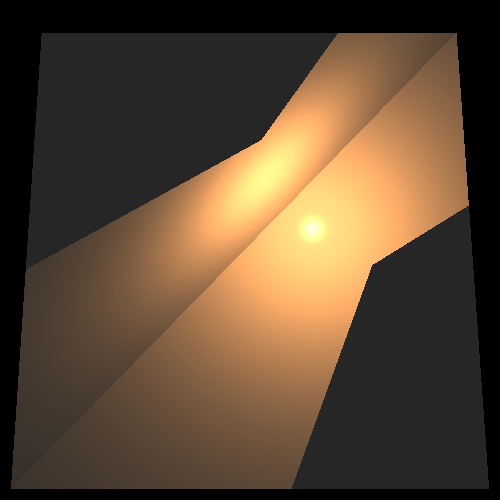
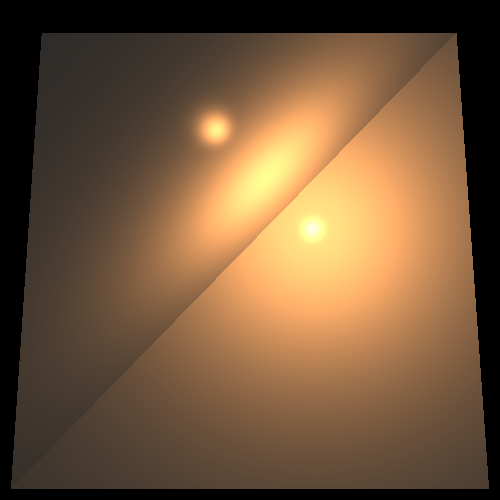
starting stage 7

Changed region(s): [[0.57, 0.42, 0.99, 0.99], [0.03, 0.06, 0.69, 0.54]]

diff --git a/src/renderer/RayTracerBasic.java b/src/renderer/RayTracerBasic.java
@@ -248,47 +248,19 @@ public class RayTracerBasic extends RayTracerBase {
         // loop through all light sources in scene
 
         var lights = scene.getLights();
-        if (softShadow) {
-            for (var lightSource : lights) {
-                Color colorBeam = Color.BLACK;
-                var vectors = lightSource.getListL(intersection.point);
-                for (var l : vectors) {
-
-                    // l.dorProduct(n)
-                    double nl = alignZero(n.dotProduct(l));
-                    // check that light direction is towards shape and not behind
-                    if (nl * nv > 0) { // sign(nl) == sing(nv)
-
-                        Double3 ktr = transparency(intersection, lightSource, l, n);
-                        if (ktr.scale(k).greaterThan(MIN_CALC_COLOR_K)) {
-                            Color lightIntensity = lightSource.getIntensity(intersection.point).scale(ktr);
-                            // (Kd * |l.dorProduct(n)|) * Il
-                            colorBeam = colorBeam.add(calcDiffusive(kD, nl, lightIntensity),
-                                    // (Ks * max(0 ,(-v).dotProduct(r)) ** nShinines ) * Il
-                                    calcSpecular(kS, nl, l, n, v, nShininess, lightIntensity));
-                        }
-                    }
-                }
-                color=color.add(colorBeam.reduce(vectors.size()));
-            }
-        }
-        else {
-            for (var lightSource : lights) {
-                // l
-                Vector l = lightSource.getL(intersection.point);
-                // l.dorProduct(n)
-                double nl = alignZero(n.dotProduct(l));
-                // check that light direction is towards shape and not behind
-                if (nl * nv > 0) { // sign(nl) == sing(nv)
-
-                    Double3 ktr = transparency(intersection, lightSource, l, n);
-                    if (ktr.scale(k).greaterThan(MIN_CALC_COLOR_K)) {
-                        Color lightIntensity = lightSource.getIntensity(intersection.point).scale(ktr);
-                        // (Kd * |l.dorProduct(n)|) * Il
-                        color = color.add(calcDiffusive(kD, nl, lightIntensity),
-                                // (Ks * max(0 ,(-v).dotProduct(r)) ** nShinines ) * Il
-                                calcSpecular(kS, nl, l, n, v, nShininess, lightIntensity));
-                    }
+        for (var lightSource : lights) {
+            // l
+            Vector l = lightSource.getL(intersection.point);
+            // l.dorProduct(n)
+            double nl = alignZero(n.dotProduct(l));
+            // check that light direction is towards shape and not behind
+            if (nl * nv > 0) { // sign(nl) == sing(nv)
+                if (unshaded(intersection,l,n,lightSource)) {
+                    Color lightIntensity = lightSource.getIntensity(intersection.point);
+                    // (Kd * |l.dorProduct(n)|) * Il
+                    color = color.add(calcDiffusive(kD, nl, lightIntensity),
+                            // (Ks * max(0 ,(-v).dotProduct(r)) ** nShinines ) * Il
+                            calcSpecular(kS, nl, l, n, v, nShininess, lightIntensity));
                 }
             }
         }
@@ -353,34 +325,23 @@ public class RayTracerBasic extends RayTracerBase {
      * @param light {@link LightSource} lighting towards the geometry
      * @return true if unshaded ,else  false.
      */
-    private boolean unshaded(GeoPoint gp, Vector l, Vector n, LightSource light) {
-        // create a vector by scaling  light direction vector to opposite direction
-        // now originating from point towards light
-        Vector lightScaled = l.scale(-1);
-        // construct a new ray using the scaled vector from the point towards ray
-        // slightly removed from original point by epsilon (in Ray class)
-        Ray shadowRay = new Ray(gp.point, n, lightScaled);
-        // get distance from the light to the point
-        double lightDistance = light.getDistance(shadowRay.getP0());
-        // check if new ray intersect a geometry between point and the light source
-        // further objects behind the light are avoided by distance parameter
-//        List<GeoPoint> intersections = scene.getGeometries().findGeoIntersections(shadowRay, lightDistance);
-        List<GeoPoint> intersections = scene.getGeometries().findGeoIntersections(shadowRay);
-        // no intersections were found - point is not shaded
-        if (intersections == null)
-            return true;
-        //iterate through intersection points: if they are closer to point than the light
-        // and the material of the geometry of intersection is not transparent
-        // point is shaded return false
-        for (var geoPoint : intersections) {
-            if (alignZero(geoPoint.point.distance(gp.point) - lightDistance) <= 0
-                    && geoPoint.geometry.getMaterial().kT.equals(Double3.ZERO)) {
-                return false;
-            }
-        }
-        // all geometries intersected are transparent - point is not shaded - return true
-        return true;
+    /**
+     * ToDo
+     * @param gp
+     * @param l
+     * @param n
+     * @return
+     */
+    private boolean unshaded(GeoPoint gp, Vector l, Vector n, LightSource light){
+        Vector lightDirection = l.scale(-1); // from point to light source
 
+        Vector epsVector = n.scale(n.dotProduct(lightDirection) >=0 ? DELTA : -DELTA);
+        Point point = gp.point.add(epsVector);
+
+        Ray lightRay = new Ray(point, lightDirection);
+        double distance = light.getDistance(point);
+        List<GeoPoint> intersections = scene.getGeometries().findGeoIntersections(lightRay,distance);
+        return intersections ==null;
     }
 
     /**

diff --git a/unitTests/renderer/ShadowTests.java b/unitTests/renderer/ShadowTests.java
@@ -1,0 +1,134 @@
+package lighting;
+
+import org.junit.jupiter.api.Test;
+
+import static java.awt.Color.*;
+
+import renderer.ImageWriter;
+import lighting.*;
+import geometries.*;
+import primitives.*;
+import renderer.*;
+import scene.Scene;
+
+import java.util.LinkedList;
+import java.util.List;
+
+/**
+ * Testing basic shadows
+ *
+ * @author Dan
+ */
+public class ShadowTests {
+    private Intersectable sphere = new Sphere(new Point(0, 0, -200), 60d) //
+            .setEmission(new Color(BLUE)) //
+            .setMaterial(new Material().setKd(0.5).setKs(0.5).setnShininess(30));
+    private Material trMaterial = new Material().setKd(0.5).setKs(0.5).setnShininess(30);
+    private List<LightSource> lights= new LinkedList<>();
+
+
+
+    /**
+     * Helper function for the tests in this module
+     */
+    void sphereTriangleHelper(String pictName, Triangle triangle, Point spotLocation) {
+        lights.clear();
+        lights.add(new SpotLight(new Color(400, 240, 0), spotLocation, new Vector(1, 1, -3)) //
+                .setKL(1E-5).setKQ(1.5E-7));
+        Scene scene = new Scene.SceneBuilder("Test scene").
+                setGeometries(new Geometries(sphere,triangle.setEmission(new Color(BLUE)).setMaterial(trMaterial))).
+                setLights(lights)
+                .build();
+
+        Camera camera = new Camera.CameraBuilder(new Point(0, 0, 1000), new Vector(0, 0, -1), new Vector(0, 1, 0)) //
+                .setVPSize(200, 200).setVPDistance(1000) //
+                .setRayTracerBase(new RayTracerBasic(scene)).
+                setImageWriter(new ImageWriter(pictName, 400, 400)).build();
+
+        camera.renderImage();
+        camera.writeToImage();
+    }
+
+    /**
+     * Produce a picture of a sphere and triangle with point light and shade
+     */
+    @Test
+    public void sphereTriangleInitial() {
+        sphereTriangleHelper("shadowSphereTriangleInitial", //
+                new Triangle(new Point(-70, -40, 0), new Point(-40, -70, 0), new Point(-68, -68, -4)), //
+                new Point(-100, -100, 200));
+    }
+
+    /**
+     * Sphere-Triangle shading - move triangle up-right
+     */
+    @Test
+    public void sphereTriangleMove1() {
+        sphereTriangleHelper("shadowSphereTriangleMove2", //
+                new Triangle(new Point(-62, -32, 0), new Point(-32, -62, 0), new Point(-60, -60, -4)), //
+                new Point(-100, -100, 200));
+    }
+
+    /**
+     * Sphere-Triangle shading - move triangle upper-righter
+     */
+    @Test
+    public void sphereTriangleMove2() {
+        sphereTriangleHelper("shadowSphereTriangleMove1", //
+                new Triangle(new Point(-49, -19, 0), new Point(-19, -49, 0), new Point(-47, -47, -4)), //
+                new Point(-100, -100, 200));
+    }
+
+    /**
+     * Sphere-Triangle shading - move spot closer
+     */
+    @Test
+    public void sphereTriangleSpot1() {
+        sphereTriangleHelper("shadowSphereTriangleSpot1", //
+                new Triangle(new Point(-70, -40, 0), new Point(-40, -70, 0), new Point(-68, -68, -4)), //
+                new Point(-88, -88, 120));
+    }
+
+    /**
+     * Sphere-Triangle shading - move spot even more close
+     */
+    @Test
+    public void sphereTriangleSpot2() {
+        sphereTriangleHelper("shadowSphereTriangleSpot2", //
+                new Triangle(new Point(-70, -40, 0), new Point(-40, -70, 0), new Point(-68, -68, -4)), //
+                new Point(-76, -76, 70));
+    }
+
+    /**
+     * Produce a picture of a two triangles lighted by a spot light with a Sphere
+     * producing a shading
+     */
+    @Test
+    public void trianglesSphere() {
+
+        lights.clear();
+        lights.add(	new SpotLight(new Color(700, 400, 400), new Point(40, 40, 115), new Vector(-1, -1, -4)) //
+                .setKL(4E-4).setKQ(2E-5));
+        Scene scene = new Scene.SceneBuilder("Test scene").
+                setGeometries(new Geometries(new Triangle(new Point(-150, -150, -115), new Point(150, -150, -135), new Point(75, 75, -150)) //
+                        .setMaterial(new Material().setKs(0.8).setnShininess(60)), //
+                        new Triangle(new Point(-150, -150, -115), new Point(-70, 70, -140), new Point(75, 75, -150)) //
+                                .setMaterial(new Material().setKs(0.8).setnShininess(60)), //
+                        new Sphere(new Point(0, 0, -11), 30d) //
+                                .setEmission(new Color(java.awt.Color.BLUE)) //
+                                .setMaterial(new Material().setKd(0.5).setKs(0.5).setnShininess(30)))).
+                setLights(lights).
+                setAmbientLight(new AmbientLight(new Color(java.awt.Color.WHITE), new Double3(0.15)))
+                .build();
+
+        Camera camera = new Camera.CameraBuilder(new Point(0, 0, 1000), new Vector(0, 0, -1), new Vector(0, 1, 0)) //
+                .setVPSize(200, 200).setVPDistance(1000) //
+                .setRayTracerBase(new RayTracerBasic(scene)).
+                setImageWriter(new ImageWriter("shadowTrianglesSphere", 600, 600)).build();
+
+        camera.renderImage();
+        camera.writeToImage();
+
+    }
+
+}
